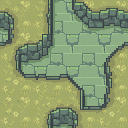
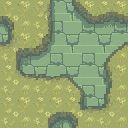
Flat lawn/path edge (no kerb), side-on crypt gate, Bone Knight bar frame, tree-border depth fix, tags hidden under dialogue

diff --git a/src/game/scenes/HubScene.ts b/src/game/scenes/HubScene.ts
@@ -28,7 +28,7 @@ const PROPS: Record<string, { tex: string; w: number; h: number; foot: [number, 
   plinth: { tex: "plinth", w: 48, h: 64, foot: [0, 1, 1.5, 1] },
   tree: { tex: "tree", w: 48, h: 64, foot: [0.3, 1.4, 0.9, 0.6] },
   "gate-whisperwood": { tex: "gate", w: 64, h: 64, foot: [0, 0, 0, 0] },
-  "gate-crypt": { tex: "gate", w: 64, h: 64, foot: [0, 0, 0, 0] },
+  "gate-crypt": { tex: "gate-side", w: 64, h: 132, foot: [0, 0, 0, 0] }, // the west road runs through it sideways
   "gate-cinder": { tex: "gate", w: 64, h: 64, foot: [0, 0, 0, 0] },
   lantern: { tex: "lantern", w: 32, h: 48, foot: [0.3, 1.1, 0.4, 0.4] },
   well: { tex: "well", w: 48, h: 48, foot: [0.1, 0.6, 1.3, 0.9] },
@@ -63,7 +63,7 @@ export class HubScene extends Phaser.Scene implements PlayerHost {
   preload() {
     this.load.spritesheet("town-tiles", "assets/tiles/town.png", { frameWidth: TILE, frameHeight: TILE });
     this.load.json("town-meta", "assets/tiles/town.json");
-    for (const p of ["house-elder", "house-forge", "house-apothecary", "shrine", "plinth", "tree", "gate", "signpost", "lantern", "well", "crates", "bush", "ruin-wall", "root", "block"]) this.load.image(p, `assets/sprites/props/${p}.png`);
+    for (const p of ["house-elder", "house-forge", "house-apothecary", "shrine", "plinth", "tree", "gate", "gate-side", "signpost", "lantern", "well", "crates", "bush", "ruin-wall", "root", "block"]) this.load.image(p, `assets/sprites/props/${p}.png`);
     for (const n of ["blacksmith", "apothecary", "elder"]) this.load.image(`npc-${n}`, `assets/sprites/npc/${n}.png`);
     for (const i of ["potion", "bomb", "coin", "key"]) this.load.image(`icon-${i}`, `assets/ui/icons/${i}.png`);
     HERO.preload(this);
@@ -98,7 +98,9 @@ export class HubScene extends Phaser.Scene implements PlayerHost {
     this.data.set("walls", this.walls);
     this.data.set("solids", this.solids);
     // keep her inside the tree border
-    for (const r of [{ x: 0, y: 0, w: W, h: 2 * TILE + 8 }, { x: 0, y: H - 2 * TILE + 10, w: W, h: 2 * TILE }, { x: 0, y: 0, w: 2 * TILE, h: H }, { x: W - 2 * TILE, y: 0, w: 2 * TILE, h: H }]) {
+    // the tree border: she stops below the top rows' trunks (so she's drawn in front of them, not tangled
+    // in the canopy) and above the bottom rows' canopy
+    for (const r of [{ x: 0, y: 0, w: W, h: 2 * TILE + 36 }, { x: 0, y: H - 2 * TILE - 10, w: W, h: 2 * TILE + 10 }, { x: 0, y: 0, w: 2 * TILE, h: H }, { x: W - 2 * TILE, y: 0, w: 2 * TILE, h: H }]) {
       this.walls.add(this.add.zone(r.x + r.w / 2, r.y + r.h / 2, r.w, r.h));
     }
 
@@ -109,7 +111,7 @@ export class HubScene extends Phaser.Scene implements PlayerHost {
       const g = anchors.find((a) => a.kind === data.from);
       if (g) {
         // just inside the gate, on the town side of it
-        sx = g.tx * TILE + (data.from === "gate-crypt" ? 88 : -24);
+        sx = g.tx * TILE + (data.from === "gate-crypt" ? 76 : -24);
         sy = g.ty * TILE + 40;
       }
     }
@@ -201,18 +203,29 @@ export class HubScene extends Phaser.Scene implements PlayerHost {
         const img = this.add.image(x, y, p.tex).setOrigin(0).setDepth(y + p.h - 6);
         if (a.kind.startsWith("gate")) {
           const sealed = !this.gateOpen(a.kind);
+          const side = p.tex === "gate-side"; // posts top and bottom, road gap between (y 34..62 of the sprite)
+          if (side) {
+            // drawn 34px above the anchor so the road gap (sprite y 50..82) lands on the road rows;
+            // the two posts are separate sprites so Wren sorts between them on the road
+            img.setY(y - 34).setCrop(0, 0, 64, 60).setDepth(y + 16);
+            const lower = this.add.image(x, y - 34, p.tex).setOrigin(0).setCrop(0, 80, 64, 52).setDepth(y + 98);
+            this.solids.add(this.add.zone(x + 41, y + 6, 14, 20));
+            this.solids.add(this.add.zone(x + 41, y + 88, 14, 20));
+            if (sealed) lower.setTint(0x9a9aa6);
+          }
           if (sealed) {
             img.setTint(0x9a9aa6);
             // barred: roots choke the marsh gate, fallen stone blocks the mountain lane
             if (a.kind === "gate-crypt") {
-              for (const [dx, sc] of [[14, 0.9], [30, 1.1], [46, 0.85]] as const) this.add.image(x + dx, y + 62, "root").setOrigin(0.5, 1).setScale(sc).setTint(0x8aa08a).setDepth(y + 63);
+              for (const [dy, sc] of [[30, 0.9], [44, 1.1], [56, 0.85]] as const) this.add.image(x + 41, y + dy, "root").setOrigin(0.5, 1).setScale(sc).setTint(0x8aa08a).setDepth(y + dy + 1);
+              this.solids.add(this.add.zone(x + 41, y + 40, 20, 34));
             } else {
               for (const [dx, dy] of [[8, 30], [30, 26], [20, 38]] as const) this.add.image(x + dx, y + dy, "block").setOrigin(0).setScale(0.8).setTint(0xb0a090).setDepth(y + dy + 26);
+              this.solids.add(this.add.zone(x + 32, y + 46, 56, 20));
             }
-            this.solids.add(this.add.zone(x + 32, y + 46, 56, 20));
           }
           // a sign hangs by each gate; the walkable gap is the middle
-          const zone = this.add.zone(x + 32, y + 40, 40, 30);
+          const zone = side ? this.add.zone(x + 41, y + 40, 20, 30) : this.add.zone(x + 32, y + 40, 40, 30);
           this.physics.add.existing(zone, true);
           this.gateZones.push({ zone, kind: a.kind });
           if (!sealed) {

diff --git a/src/ui/HUD.tsx b/src/ui/HUD.tsx
@@ -246,6 +246,7 @@ function Minimap() {
  */
 const BOSS_BARS: Record<string, { img: string; w: number; h: number; channel: [number, number, number, number]; fill: string; hi: string; lo: string }> = {
   "ELDER TREANT": { img: "/assets/sprites/props/bossbar-treant.png", w: 192, h: 32, channel: [32, 12, 127, 9], fill: "#e8763a", hi: "#ffd090", lo: "#7a2e10" },
+  "BONE KNIGHT": { img: "/assets/sprites/props/bossbar-boneknight.png", w: 192, h: 32, channel: [33, 11, 121, 9], fill: "#4fb3c4", hi: "#bfeff5", lo: "#1e4a58" },
 };
 
 /** The boss's own health bar: bespoke frame, fill clipped to its channel, name riding above. */
@@ -443,7 +444,7 @@ export function HUD() {
       </div>
 
       {!bagOpen && !dialogue && !banner && !tag && <Coach />}
-      <WorldTag />
+      {!dialogue && !bagOpen && <WorldTag />}
 
       {banner && (
         <div className={`banner ${banner.kind}`} key={banner.kind + banner.title}>

diff --git a/tools/make_side_gate.py b/tools/make_side_gate.py
@@ -1,0 +1,14 @@
+"""Side-on town gate for roads that run east-west (the crypt gate): two full pillars cut from the
+front-facing gate sprite, stacked top and bottom with a 32px road gap between, sign on the top post.
+Canvas 64x132; the hub draws it 34px above the gate anchor so the gap sits on the road rows."""
+from PIL import Image
+g = Image.open("public/assets/sprites/props/gate.png").convert("RGBA")
+post = g.crop((0, 12, 14, 62))          # the left pillar: stone cap, moss, foot (14x50)
+sign = g.crop((14, 15, 41, 29))         # the hanging wooden sign, 27x14
+out = Image.new("RGBA", (64, 132), (0, 0, 0, 0))
+out.alpha_composite(post, (34, 0))      # top post: y 0..50
+out.alpha_composite(post, (34, 82))     # bottom post: y 82..132, road gap y 50..82
+out.alpha_composite(sign, (44, 4))      # sign hangs off the top post's east face
+out.save("public/assets/sprites/props/gate-side.png")
+out.resize((256, 528), Image.NEAREST).save("docs/sprite-review/gate-side.png")
+print("gate-side written")

diff --git a/tools/draw_water.py b/tools/draw_water.py
@@ -61,8 +61,8 @@ for y in range(raw.height):
         h, l, s = colorsys.rgb_to_hls(r / 255, g / 255, b / 255)
         # greens swing toward teal, everything a touch darker and greyer
         if 0.15 < h < 0.45:
-            h = h + 0.12
-        l *= 0.86
+            h = h + 0.16
+        l *= 0.8
         s *= 0.8
         r2, g2, b2 = colorsys.hls_to_rgb(h, l, s)
         px[x, y] = (int(r2 * 255), int(g2 * 255), int(b2 * 255), a)

diff --git a/docs/NIGHT_LOG.md b/docs/NIGHT_LOG.md
@@ -23,3 +23,5 @@ Read top to bottom; each entry is one committed increment. "Ask" items are taste
 Backlog complete (1–10). Waiting on the user for the next direction: Sunken Crypt, or another pass on what's here.
 | 11:xx | Hub visual QA | First captures (docs/sprite-review/hub-qa.png) showed a golf course: 40x30 of flat grass around five props. Rebuilt the town at 32x24 with paths that reach every door, lanterns (with halos) on the plaza corners, a well, crates by the forge, stones, ruined wall bits, tree clumps; sealed gates are now visibly barred (roots on the marsh gate, fallen blocks on the mountain lane) and solid. After: docs/sprite-review/hub-qa-2.png. Known: the "bush" prop reads as a stone (kept as stones); the tree border reads as a hedge. | 25 |
 | 11:xx | User: grass/path edge + house size | Tileset v5: soft olive lawn with speckles and a kerbed, organic path edge (round transition, chained from the dungeon flagstone; v4 with the hedge grass kept as `town-kerb.*`). Houses regenerated at 128px (4x4 tiles) with more detail; map re-planned so every door meets its path. Review: docs/sprite-review/hub-qa-3.png, m3-houses-xl.png. | ~26 |
+| 13:xx | Sunken Crypt (dungeon 2) | Map authored in `tools/make_crypt.py` (10 rooms, 4x3): drowned halls that drain when you stand on a rune plate, a cistern you cross by grapple hook, ossuary/bat roost/captain's vault fights, the Bone Knight's hall. DungeonScene is now generic over `src/game/data/dungeons.ts` (tileset, boss, sign title, banner text, unlock rooms per dungeon; the Hub's west gate opens once `shard:whisperwood` is set). New: water/pit tiles (static fence, blue slimes swim), anchors + `Grapple` tool (RMB, Q swaps with the boomerang; reels Wren past the post, reels foes in), `Skeleton` (+captain), bats (ForestSprite variant), `BoneKnight` (tower shield blocks the front, hook tears it off for a window, charges, phase 2). PixelLab: crypt tileset (cooled in `tools/draw_water.py`), skeleton/bat/knight/sarcophagus/bones/anchor/hook/pit; water tile drawn in Python after PixelLab refused a flat fill. Verified end to end with scripted runs (`__start` in tools/playtest.js; `__run` now skews Date.now so tweens follow virtual time). | ~70 |
+| 14:xx | User: overlaps + west gate | The v5 kerb read as a raised ledge (its "enhanced" prompt said "mid-height wall"): regenerated as a flat, same-level grass edge (`enhance:false`, v5 kept as town-kerb-v5). Tree border walls thickened so Wren isn't drawn tangled in the canopy. World tags hide while a dialogue is open (only HUD overlap the checker found). West gate is now side-on (`tools/make_side_gate.py` composes two pillars + sign from the front gate; PixelLab kept returning it front-facing). Bone Knight has his own bar frame (skull, femurs, chain, shield; teal fill). | ~9 |
